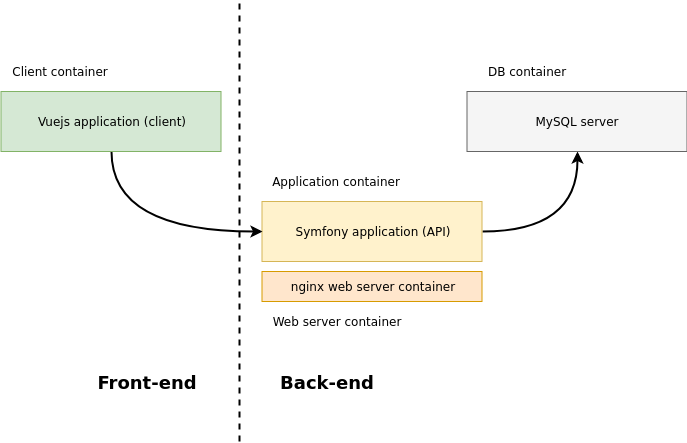
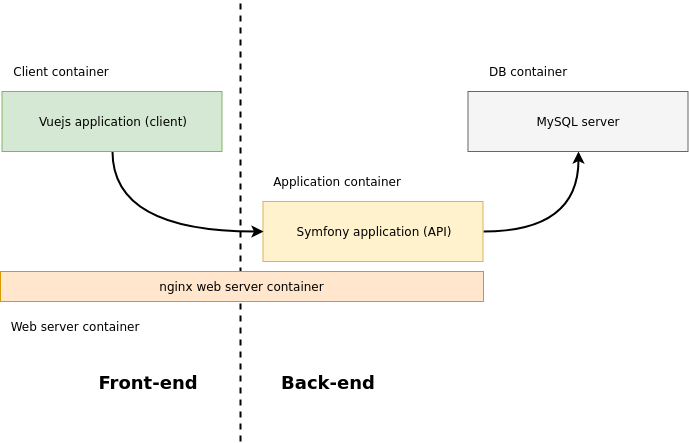
Documentation

diff --git a/README.md b/README.md
@@ -9,11 +9,13 @@ Architecture
 
 The application is made of a simple client to server architecture. See the schema below.
 
-<p align="center"><img src="./docs/archi1.png" alt="architecture picture"></p>
+<p align="center"><img src="./docs/archi1.png" alt="architecture schema"></p>
 
 The server side use Api Platform, a powerful Symfony bundle to generate swagger documentation and default CRUD methods. The JWT component make authentication easier for the client side.
 
 The usage of Docker allows us to deploy easily the application in a closed and secure environment.
+
+<p align="center"><img src="./docs/archi2.png" alt="architecture schema"></p>
 
 Requirements
 ------------
